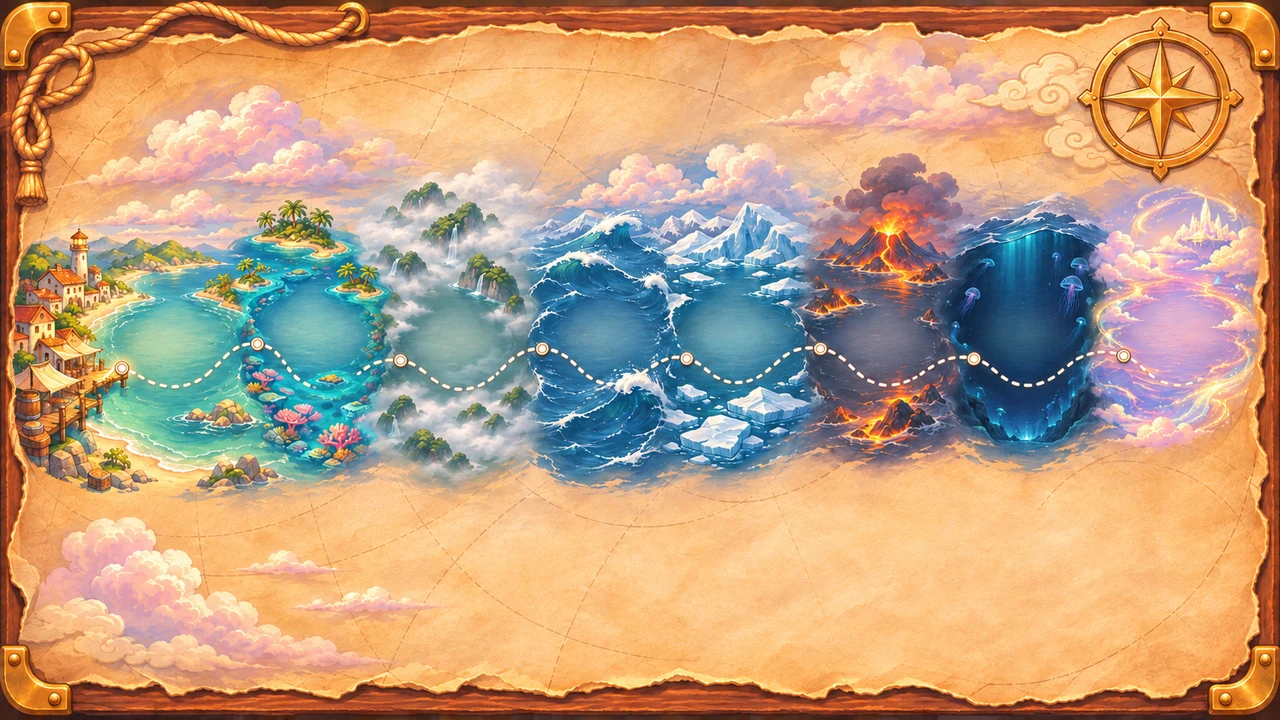
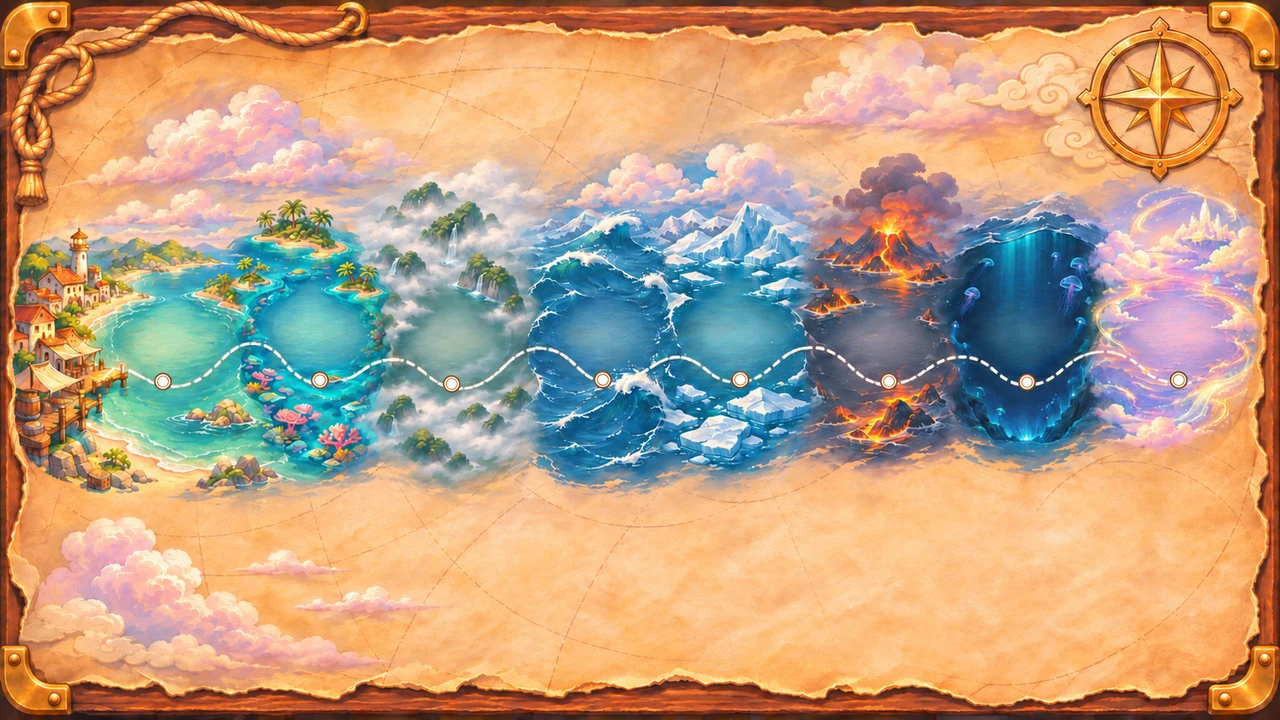
해도 새 그림 (#393): 점이 해역 한가운데에 있고 표식 끝이 그 점을 가리킨다
Claude-Session: https://claude.ai/code/session_0142yqQtSepe3ngremP8BMYq

diff --git a/src/book.js b/src/book.js
@@ -45,10 +45,9 @@ export function updateBook(g, dt) {
 }
 
 // ── 해역 지도: 표식을 눌러 그 바다로 간다 ──
-// 표식의 자리: 해역마다 그림 한가운데(잔잔한 물 자리), 해도에 그려진 점선 항로 위. 표식의 뾰족한 끝이 그 자리를 가리킨다.
-// (해도 그림에 찍혀 있는 점들은 해역과 해역의 경계에 있어서, 거기에 표식을 세우면 옆 해역에 걸쳐 보였다.)
-const DOTS_XY = [null, [84, 193], [158, 193], [226, 193.5], [300, 192], [370, 195.5], [440, 192], [514, 192.2], [590, 191.2], [80, 297]];      // 9 = 태초의 바다: 왼쪽 아래 구름 속, 처음 떠난 항구 바로 곁 (가장 먼 곳이 아니라 출발점 옆에 있었다)
-const HARBOR_XY = [62, 184.4];      // 해도 그림의 부두 끝 점: 태초의 바다로 가는 항로가 여기서 갈라진다
+// 해도 그림의 항로 위에 찍힌 점 8개의 자리 (그림에서 잰 값. 점은 해역 그림마다 한가운데에 있다). 표식의 뾰족한 끝이 그 점을 가리킨다.
+const DOTS_XY = [null, [81.1, 190.8], [159.8, 189.9], [225.6, 191.9], [301.2, 190.3], [370, 190.3], [444.2, 190.6], [513.3, 190.8], [589.1, 190], [80, 297]];      // 9 = 태초의 바다: 왼쪽 아래 구름 속, 처음 떠난 항구 바로 곁 (가장 먼 곳이 아니라 출발점 옆에 있었다)
+const HARBOR_XY = [63, 187];      // 해도 그림의 부두 끝 (항로가 시작하는 곳): 태초의 바다로 가는 항로가 여기서 갈라진다
 const PIN_W = 30;
 const MCLOSE = { x: W - 46, y: H - 48 };      // 해도의 나침반을 가리지 않게 오른쪽 아래에
 export function openMap(g) { g.map = { a: 0, t: 0, closing: null, note: null }; g.sfx.push(['paper']); }
@@ -82,8 +81,8 @@ export function drawMap(ctx, g) {
       for (const [col, lw] of [['rgba(60,40,24,0.35)', 2.4], ['#fff8e6', 1.3]]) { ctx.strokeStyle = col; ctx.lineWidth = lw; ctx.beginPath(); for (let i = 0; i <= Math.round(n * k); i++) { const [px, py] = at(i / n); if (i) ctx.lineTo(px, py); else ctx.moveTo(px, py); } ctx.stroke(); }
       ctx.restore();
     }
-    // 표식이 가리키는 자리의 점 (해도에 찍힌 점과 같은 모양)
-    ctx.save(); ctx.globalAlpha = a * rv;
+    // 태초의 바다의 점은 해도 그림에 없다 (열린 뒤에만 보인다): 해도에 찍힌 점과 같은 모양으로 찍는다
+    ctx.save(); ctx.globalAlpha = r === 9 ? a * rv : 0;
     ctx.fillStyle = 'rgba(60,40,24,0.5)'; ctx.beginPath(); ctx.arc(dx, dy, 3.1, 0, Math.PI * 2); ctx.fill(); ctx.fillStyle = '#fff8e6'; ctx.beginPath(); ctx.arc(dx, dy, 2.2, 0, Math.PI * 2); ctx.fill();
     ctx.restore();
     ctx.save(); ctx.globalAlpha = a * rv; ctx.translate(0, (1 - rv) * 6);

diff --git a/tools/play_human.js b/tools/play_human.js
@@ -34,7 +34,7 @@ const { chromium } = require('playwright');
         if (g.scene !== 'sea') { bad.push('출항 실패 ' + Math.round(T)); break; }
         // 갈 수 있는 가장 먼, 장비가 받쳐 주는 해역으로 (지도에서 고른다)
         let r = E.maxRegion(g.eco); while (r > 1 && (g.eco.gear.rod < (r - 1) * 10 || g.eco.gear.line < (r - 1) * 10)) r--;
-        if (r !== g.region) { window.__pointer(640 - 64, 360 - 26); tick(40); if (!g.map) bad.push('지도 안 열림'); window.__pointer([0, 84, 158, 226, 300, 370, 440, 514, 590][r], 175);      /* 표식의 자리 (book.js DOTS_XY) */ tick(90); clear();
+        if (r !== g.region) { window.__pointer(640 - 64, 360 - 26); tick(40); if (!g.map) bad.push('지도 안 열림'); window.__pointer([0, 81, 160, 226, 301, 370, 444, 513, 589][r], 175);      /* 표식의 자리 (book.js DOTS_XY) */ tick(90); clear();
           if (g.region !== r) bad.push('해역 이동 실패 ' + r); else log.push(Math.round(T / 60) + '분 ' + r + '번 해역 (도감 ' + Object.keys(g.records).length + ', 물건 ' + g.relics + ')'); }
         continue;
       }

diff --git a/tools/slice_ui.py b/tools/slice_ui.py
@@ -208,7 +208,8 @@ def run(manifest):
         extra.append((src, im))
     if extra: pack(extra, 'ui_extra.webp', manifest)
     if (RAW / 'ui_map.png').exists():
-        im = Image.open(RAW / 'ui_map.png').convert('RGB').resize((1280, 720), Image.LANCZOS); im.save(OUT / 'ui_map.webp', 'WEBP', quality=88, method=4)
+        mp = RAW / ('ui_map_b.png' if (RAW / 'ui_map_b.png').exists() else 'ui_map.png')      # 점을 해역 한가운데로 옮긴 그림
+        im = Image.open(mp).convert('RGB').resize((1280, 720), Image.LANCZOS); im.save(OUT / 'ui_map.webp', 'WEBP', quality=88, method=4)
         manifest['ui_map'] = dict(file='ui_map.webp', w=640, h=360, smooth=True)
 
 

diff --git a/GAME_DESIGN.md b/GAME_DESIGN.md
@@ -727,4 +727,4 @@
 - 글자가 든 그림(‘낚았다!’ 글자판, 첫 포획·신기록 도장)은 이름 끝에 `_en`이 붙은 그림이 있으면 영어판에서 그것을 쓴다. 없으면 한글 그림 그대로. 영어 그림은 `tools/slice_en.py`가 잘라 `ui_en.webp`에 넣는다 (#391, #392).
 - 영어 글은 영어가 모국어인 사람의 검토를 한 번 받는 것이 좋다.
 - 환상종을 놓아줄 때의 물기둥: 물기둥이 다 무너져 잔거품이 될 때까지(2초) 카메라는 물러난 채로 둔다. 전에는 물기둥이 솟는 도중에 카메라가 다가가서 물기둥이 화면 가득 부풀어 보였다. 큰 물기둥의 밑동은 수면에 닿게 조금 내려 그린다.
-- 해도의 표식 자리: 해역 그림의 한가운데(잔잔한 물 자리), 점선 항로 위에 세운다. 해도 그림에 찍힌 점은 해역 사이 경계에 있어서 거기에 세우면 표식이 옆 해역에 걸쳐 보였다. 표식이 가리키는 자리에는 같은 모양의 점을 찍는다. 태초의 바다로 가는 점선은 부두 끝 점에서 왼쪽 바닷가로 돌아 내려간다.
+- 해도의 표식 자리: 해역 그림의 한가운데(잔잔한 물 자리), 점선 항로 위에 세운다. 해도 그림에 찍힌 점은 해역 사이 경계에 있어서 거기에 세우면 표식이 옆 해역에 걸쳐 보였다. 점을 한가운데로 옮긴 해도 그림(#393 `ui_map_b`)을 쓰고, 표식의 끝이 그 점을 가리킨다. 태초의 바다의 점과 항로만 열린 뒤에 게임이 그린다. 태초의 바다로 가는 점선은 부두 끝 점에서 왼쪽 바닷가로 돌아 내려간다.

diff --git a/ASSET_QUEUE.md b/ASSET_QUEUE.md
@@ -412,4 +412,4 @@
 | 390 | `h_npc_market` | 생선 장수: 안고 있는 통물고기를 없애고 손저울과 얇은 장부를 들게 (한 사람만) | DONE | 통과. 다른 주인들과 같은 자리·방향에 선다 (손저울이 판에 조금 가려도 된다) |
 | 391 | `ui2_caught_en` | 영어판: '낚았다!' 글자판 6개를 글자만 "Caught!"로 바꾸기 (장식·색·크기는 그대로) | DONE | 통과. 철자 맞고 장식은 그대로다 |
 | 392 | `ui2_stamp_en` | 영어판: 도장 2개 글자만 바꾸기 (첫 포획 → FIRST CATCH, 신기록 → NEW RECORD) | DONE | 통과 |
-| 393 | `ui_map_b` | 해도 고치기: 항로의 점 8개를 해역 그림 한가운데로 옮기기 (나머지는 그대로. 태초의 바다 점은 넣지 않는다) | TODO | |
+| 393 | `ui_map_b` | 해도 고치기: 항로의 점 8개를 해역 그림 한가운데로 옮기기 (나머지는 그대로. 태초의 바다 점은 넣지 않는다) | DONE | 통과. 점 8개가 해역 한가운데 항로 위에 있다 |
